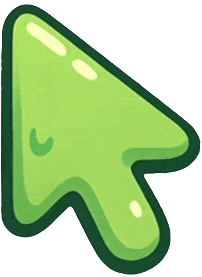
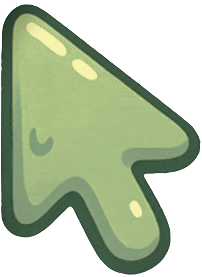
some major changes, to stand out

diff --git a/haha.py b/haha.py
@@ -1,6 +1,10 @@
 import pygame
 import sys
 
+screen=pygame.display.set_mode((1000,500))
+clock=pygame.time.Clock()
+pygame.display.set_caption("Flappy Witch")
+
 pygame.init()
 pygame.mixer.init()
 
@@ -24,7 +28,7 @@ class GameElements:
     
     def seconds():
         secs= int(pygame.time.get_ticks()/1000)
-        secs1=font3.render(f"Seconds: {secs}", False, 'darkslategray')
+        secs1=font3.render(f"Seconds: {secs}", False, 'goldenrod4')
         return secs1
     
     def cursor():
@@ -35,9 +39,9 @@ class GameElements:
     
     def exitbutton():
 
-        color_not='aquamarine4'
-        color_umm='olivedrab4'
-        color_yes='chartreuse4'
+        color_not='goldenrod3'
+        color_umm='goldenrod4'
+       
 
         button=pygame.Rect(900,450,70,30)
         color=color_umm if button.collidepoint(GameElements.mouse()) else color_not
@@ -47,23 +51,46 @@ class GameElements:
         text_rect = text_surf.get_rect(center=button.center)
         return button, text_surf, text_rect
     
-    def background():
 
-        background1=pygame.image.load('char/final.png')
-        background2=pygame.transform.scale(background1,(3000,500))
-        background=background2.get_rect(topleft=(0,0))
-        background.right-=1
-        if background.right<=1000:
-            background.left=0
 
-        return background2, background
+background1=pygame.image.load('char/final.png')
+background2=pygame.transform.scale(background1,(3000,500))
+background=background2.get_rect(topleft=(0,0))
+
+playbut1=pygame.image.load('char/play1.png').convert_alpha()
+playbut2=pygame.transform.scale(playbut1, (160,80))
+playbut3=playbut2.get_rect(topleft=(425,220))
+
+playp2=pygame.image.load('char/play2.png').convert_alpha()
+playp1=pygame.transform.scale(playp2, (160,80))
+playp=playp1.get_rect(topleft=(425,220))
+
+over2=pygame.image.load('char/gameover1.png').convert_alpha()
+over1=pygame.transform.scale(over2, (445,100))
+over=over1.get_rect(topleft=(280,200))
+
+heart12=pygame.image.load('char/heart1.png').convert_alpha()
+heart11=pygame.transform.scale(heart12, (200,50))
+heart1=heart11.get_rect(topleft=(50,5))
+
+heart22=pygame.image.load('char/heart2.png').convert_alpha()
+heart21=pygame.transform.scale(heart22, (200,50))
+heart2=heart21.get_rect(topleft=(50,5))
+
+heart32=pygame.image.load('char/heart3.png').convert_alpha()
+heart31=pygame.transform.scale(heart32, (200,50))
+heart3=heart31.get_rect(topleft=(50,5))
+
+heart42=pygame.image.load('char/heart4.png').convert_alpha()
+heart41=pygame.transform.scale(heart42, (200,50))
+heart4=heart41.get_rect(topleft=(50,5))
+
+heart52=pygame.image.load('char/heart5.png').convert_alpha()
+heart51=pygame.transform.scale(heart52, (200,50))
+heart5=heart51.get_rect(topleft=(50,5))
 
 
 GameElements.bgmusic()
-
-screen=pygame.display.set_mode((1000,500))
-clock=pygame.time.Clock()
-pygame.display.set_caption("Flappy Witch")
 
 mousepos=pygame.mouse.get_pos()
 mx,my=mousepos
@@ -73,7 +100,7 @@ collided_last_frame=False
 
 witch1=pygame.image.load('char/witch.png').convert_alpha()
 witch2=pygame.transform.scale(witch1, (55,55))
-witch=witch2.get_rect(topleft=(100,350))
+witch=witch2.get_rect(topleft=(-55,350))
 
 pillarup=pygame.image.load('char/uppipe.png').convert_alpha()
 pillarup1=pygame.transform.scale(pillarup, (30,300))
@@ -96,91 +123,122 @@ font=pygame.font.Font('font/yoster.ttf', 20)
 font1=pygame.font.Font('font/yoster.ttf', 50)
 font3=pygame.font.Font('font/yoster.ttf', 20)
 
-y=5
-lose=100
-start=False
+y=2
+lose=40
+start=0
 run=True
-
+vel=2
+velo=5
 
 mes=font1.render("Game Ended", False, 'white')
 
 
 while run:
-
+    
     for event in pygame.event.get():
             if event.type==pygame.QUIT:
                 run=False
+                pygame.display.update()
                 pygame.quit()
                 sys.exit()
-            if (event.type==pygame.MOUSEBUTTONDOWN):
-                if GameElements.exitbutton()[0].collidepoint(mousepos):
-                    pygame.time.wait(1000)
-                    pygame.quit()
-                    sys.exit() 
 
 
-    screen.blit(GameElements.background()[0], GameElements.background()[1])
+    background.right-=1
+    if background.right<=1000:
+        background.left=0
+    screen.blit(background2, background)
 
 
     pygame.mouse.set_visible(False)
+
+
+    pillars = [pillarupp, pillarupp2, pillarupp3, pillarupp4,
+            pillardownn, pillardownn2, pillardownn3, pillardownn4]
+    current_collision=False
+
+    for p in pillars[0:4]:
+        p.left-=1.4
+        if p.right<=0:
+            p.left=1000
+        screen.blit(pillarup1, p)
+
+    for p in pillars[4:8]:
+        p.left-=1.4
+        if p.right<=0:
+            p.left=1000
+        screen.blit(pillardown1, p)
     
-
     
-    mes=font1.render("Welcome! Let's save the Witch!", False, 'white') 
-    sec=pygame.time.get_ticks()
+    mes=font1.render("Save the Witch!", False, 'goldenrod2') 
+    
+    if start==0:
+        
+        mess=font1.render("Click Play to start", False, 'goldenrod2')
+        by=font.render("Game By Chaitali Ingle", False, 'goldenrod2')
+        screen.blit(by, (370, 450))
+        screen.blit(mess, (250,50))
+        screen.blit(playbut2,playbut3)
+        screen.blit(GameElements.cursor()[0], GameElements.cursor()[1] )
 
-
-    if not start:
-
-        screen.blit(mes, (100, 150))
-  
-        for i in range (3, 0, -1):
+        pygame.display.update()
+        for events in pygame.event.get():
             
-            seconds=font1.render(f'{i}', False, 'white')
-            screen.blit(seconds, (450,250))
-            pygame.time.wait(500)
+            if playbut3.collidepoint(GameElements.mouse()[0], GameElements.mouse()[1]):
+                # pygame.display.update()
+                screen.blit(playp1,playp)
+                screen.blit(GameElements.cursor()[0], GameElements.cursor()[1] )
+                pygame.display.update()
+                if events.type==pygame.MOUSEBUTTONDOWN:
+                
+                    
+                    pygame.display.update()
+                    start+=1
+
+    elif start==1:
+
+        screen.blit(mes, (300, 150))
+
+        for i in range (3, -1, -1):
+            
+            seconds=font1.render(str(int(i)), False, 'goldenrod2')
+            screen.blit(seconds, (490,250))
+            # pygame.display.update()
+            # screen.blit(GameElements.cursor()[0], GameElements.cursor()[1] )
+            pygame.time.wait(1000)
             pygame.display.update()
-            if seconds==1:
+            if i==0:
+                start+=1
                 break
-           
+      
             
     else:
-
-        screen.blit(GameElements.seconds()[0], (800,15))
+        
+        sec=pygame.time.get_ticks()
+        screen.blit(GameElements.seconds(), (800,15))
 
         screen.blit(GameElements.exitbutton()[1], GameElements.exitbutton()[2])
-
-        pillars = [pillarupp, pillarupp2, pillarupp3, pillarupp4,
-                pillardownn, pillardownn2, pillardownn3, pillardownn4]
-        current_collision=False
-
-        for p in pillars[0:4]:
-            p.left-=4
-            if p.right<=0:
-                p.left=1000
-            screen.blit(pillarup1, p)
-
-        for p in pillars[4:8]:
-            p.left-=4
-            if p.right<=0:
-                p.left=1000
-            screen.blit(pillardown1, p)
-
-    
-        screen.blit(GameElements.cursor()[0], GameElements.cursor()[1] )
+        for event in pygame.event.get():
+            if event.type==pygame.MOUSEBUTTONDOWN:
+                if GameElements.exitbutton()[0].collidepoint(GameElements.mouse()[0], GameElements.mouse()[1]):
+                 
+                    screen.blit(over1, over)
+                    pygame.display.update()
+                    pygame.time.wait(1000)
+                    # pygame.qu
+                    sys.exit()
 
         
         key=pygame.key.get_pressed()
         if key[pygame.K_w] or key[pygame.K_UP]:
             witch.centery-=2
         if key[pygame.K_s] or key[pygame.K_DOWN]:
-            witch.centery+=14
+            witch.centery+=velo
         
 
         
         if any(witch.colliderect(p) for p in pillars):
             current_collision=True
-
+            witch.left-=0.5
         
         if current_collision and not collided_last_frame:
             witch.left-=1
@@ -190,7 +248,7 @@ while run:
         collided_last_frame=current_collision
 
         #witch
-        witch.left+=5
+        witch.left+=vel
         witch.top-=y
         if witch.left>=1000:
             witch.left=-witch.width
@@ -201,24 +259,51 @@ while run:
         if witch.top<=0 or witch.bottom>=500:
             y*=-1
         
-        name=font.render(f"Save the Witch!", False, 'darkslategray')
-        screen.blit(name, (430, 15))
+        name=font.render(f"Save the Witch!", False, 'goldenrod4')
+        screen.blit(name, (420, 15))
 
 
-        message2=font.render(f"Health: {int(lose)}", False, 'darkslategray')
-        screen.blit(message2, (100, 20))
+        # message2=font.render(f"Health: {int(lose)}", False, 'goldenrod4')
+        # screen.blit(message2, (100, 20))
+        screen.blit(GameElements.cursor()[0], GameElements.cursor()[1] )
+
+
+        if lose>0 and lose<=10:
+            vel=3.8
+            y=5
+            velo=8
+            screen.blit(heart21, heart2)
+            pygame.display.update()
+
+        elif lose>10 and lose<=20:
+            vel=3.2
+            y=4
+            velo=6.9
+            screen.blit(heart31, heart3)
+            pygame.display.update()
+
+        elif lose>20 and lose<=30:
+            vel=2.6
+            y=3
+            velo=5.5
+            screen.blit(heart41, heart4)
+            pygame.display.update()
+
+        elif lose>30 and lose<=40:
+            screen.blit(heart51, heart5)
 
 
         if lose<=0:
-                message1=font1.render("Game Over!", False, 'white')
-                screen.blit(message1, (370, 240))
+                screen.blit(heart11, heart1)
+                # message1=font1.render("Amazing!", False, 'white')
+                screen.blit(over1, over)
                 pygame.display.update()
                 pygame.time.wait(2000)
                 run = False
 
 
         pygame.display.update()
-        clock.tick(1000)
+        clock.tick(60)
 
 
 pygame.quit()
